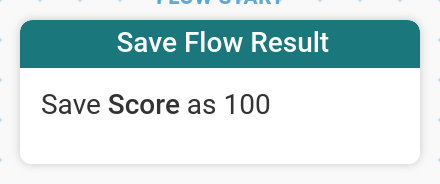
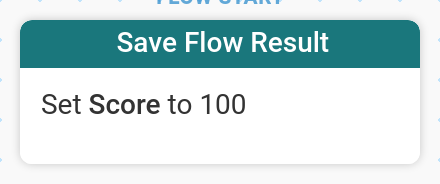
Use "Set X to Y" wording for Save Flow Result canvas node

Changed region(s): [[0.1182, 0.4891, 0.6205, 0.625]]

diff --git a/src/flow/actions/set_run_result.ts b/src/flow/actions/set_run_result.ts
@@ -10,9 +10,9 @@ export const set_run_result: ActionConfig = {
   flowTypes: [FlowTypes.VOICE, FlowTypes.MESSAGE, FlowTypes.BACKGROUND],
   render: (_node: Node, action: SetRunResult) => {
     return renderClamped(
-      html`Save <strong>${action.name}</strong> as
+      html`Set <strong>${action.name}</strong> to
         ${renderHighlightedText(action.value, true)}`,
-      `Save ${action.name} as ${action.value}`
+      `Set ${action.name} to ${action.value}`
     );
   },
   form: {
